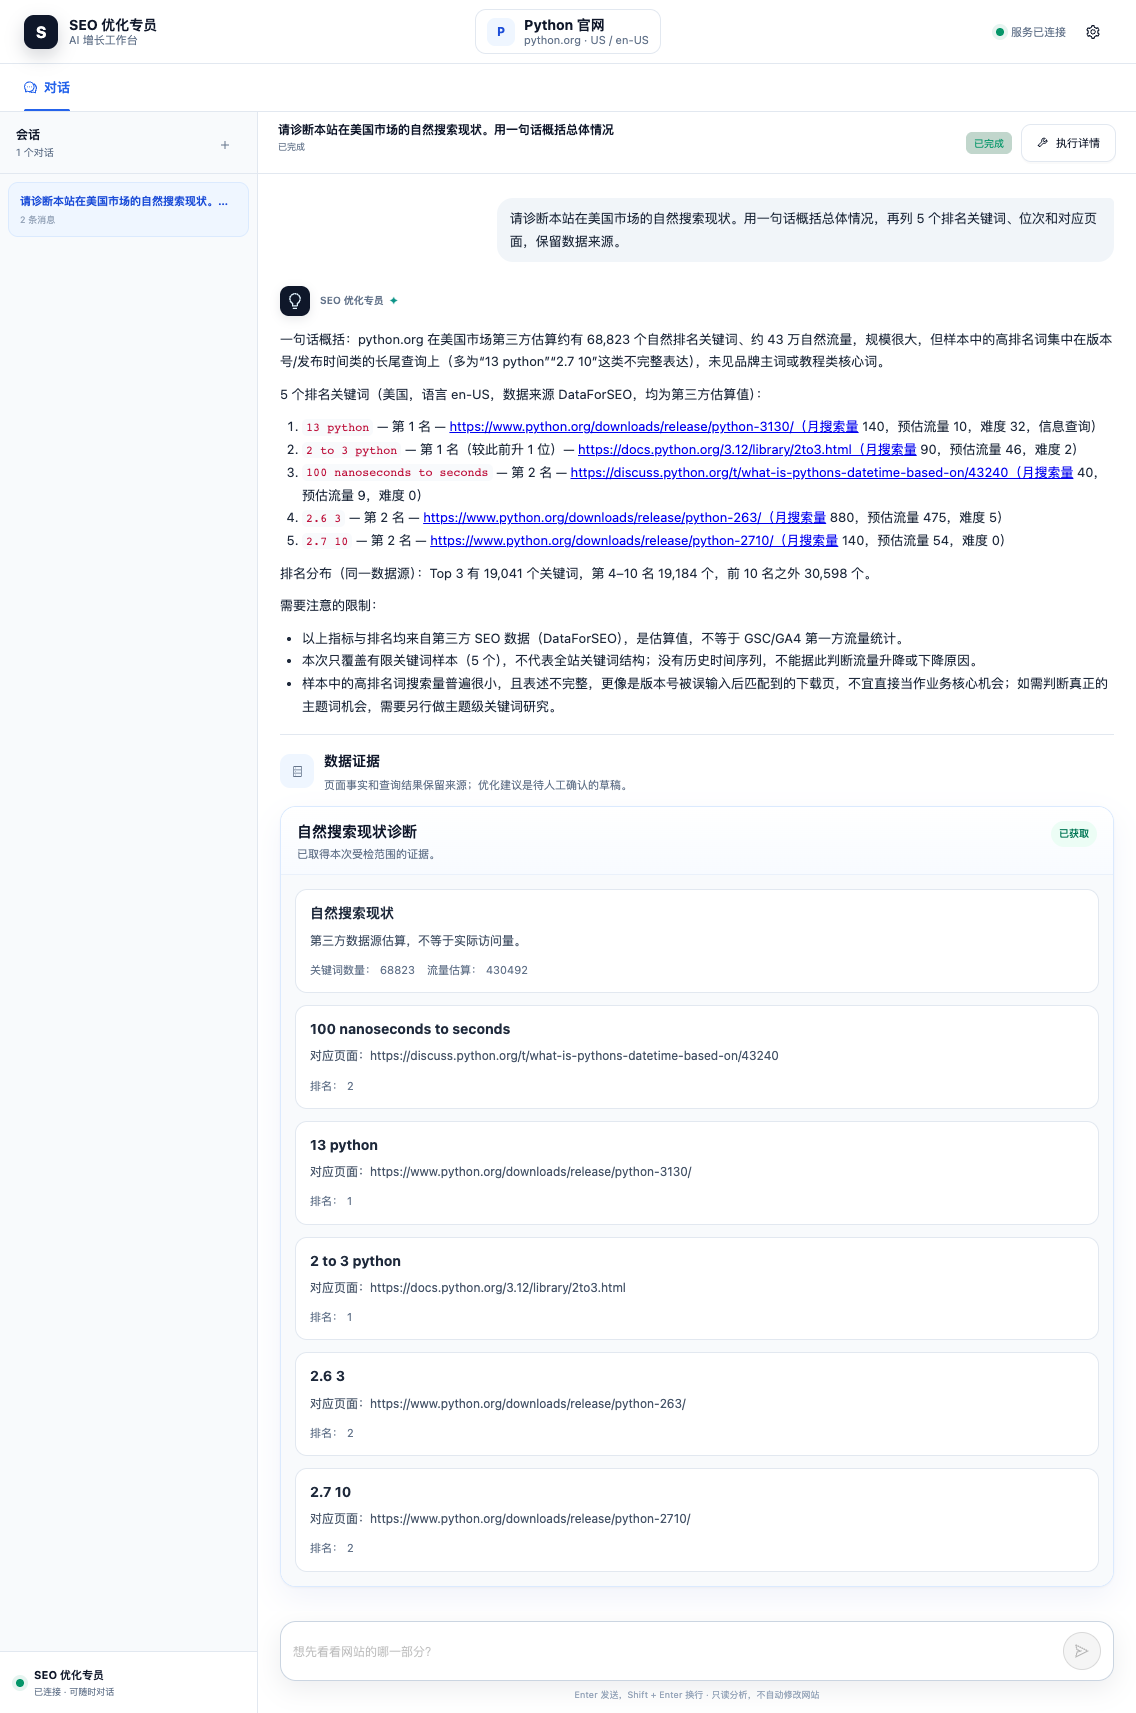
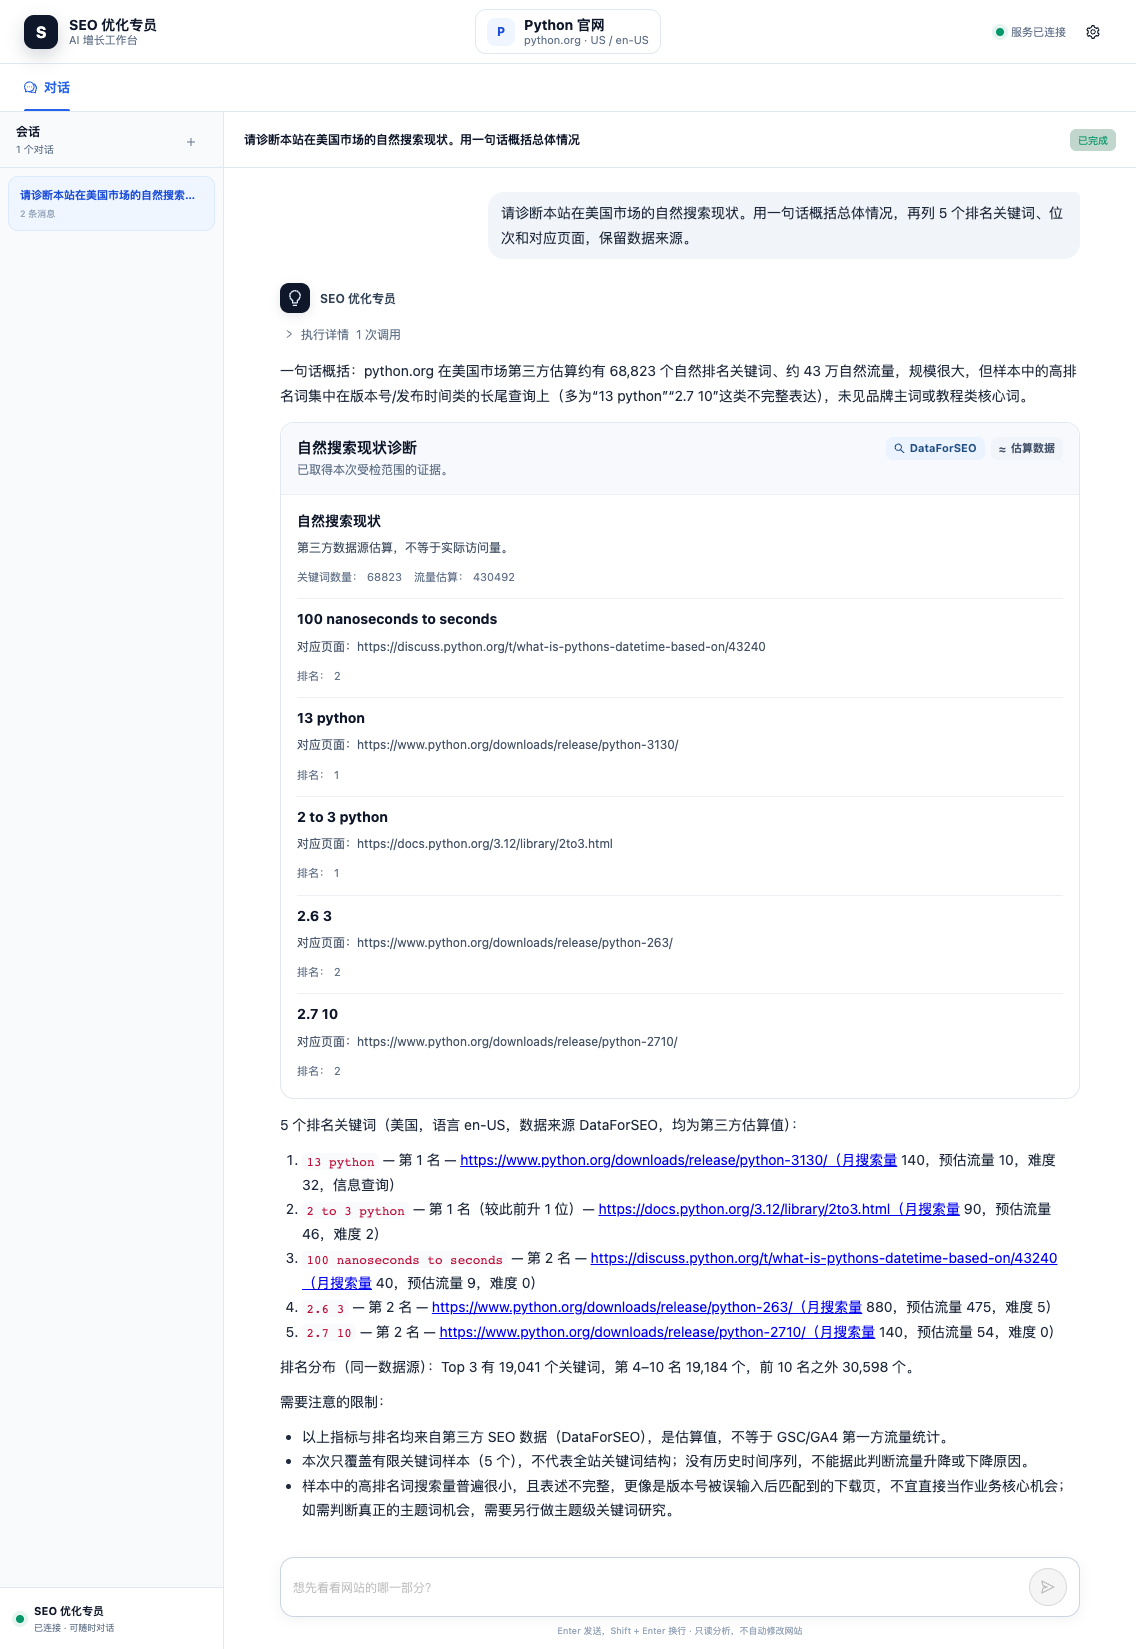
docs: show a complete SEO agent run

diff --git a/README.md b/README.md
@@ -2,9 +2,9 @@
 
 选一个网站，直接说你想查什么。DeepSeek 根据问题和取回的证据选择下一步工具，能查页面问题、研究关键词和排名页、拟定 SEO 建议。配置 Cloudflare Workers AI 后，也能在对话里生成页面分享图。
 
-## 一次真实对话
+## 真实对话
 
-用户请 Agent 根据页面拟定标题和结构化数据。
+用户准备更新首页在搜索结果和分享链接上的文案，希望先拿到一份可评审的草稿。DeepSeek 根据这句需求选择页面建议流程。读到页面后，Agent 发现站点主体和配图需要确认，于是保留证据，等待用户决定。用户选择「先用现有信息生成」，同一次运行继续，交付标题、摘要、分享信息和 JSON-LD 草稿，并标出待确认事项。[完整对话](docs/screenshots/07-page-suggestions.png) · [执行详情](docs/screenshots/11-execution-details.png)
 
 ```mermaid
 flowchart TD
@@ -16,13 +16,13 @@ flowchart TD
     Read --> Pause --> Choice --> Resume --> Draft
 ```
 
-[人工补充与执行记录](docs/screenshots/README.md#对话与人工补充) · [完整对话截图](docs/screenshots/README.md) · [本地启动](#本地启动)
+[首页体检](docs/screenshots/19-homepage-priority.png) · [关键词机会](docs/screenshots/04-keyword-opportunities.png) · [已有排名页优化](docs/screenshots/05-ranking-pages.png) · [完整对话截图](docs/screenshots/README.md) · [本地启动](#本地启动)
 
 ## Agent 如何运行
 
 - DeepSeek 根据问题和已有证据选择工具。代码限制模型轮次、工具调用总数和超时，复用本次运行中重复的成功查询。[对话入口](src/api/routes/seo_agent_chat.py) · [工具循环](src/agent/loop.py)
 - 工作流安排取证步骤、校验实际来源和结构化产物。需要人工补充时，运行检查点保存已查到的证据。[工作流代码](src/seo_agent/workflows/) · [检查点与恢复](src/agent/harness/)
-- 模型、工具及其子步骤保留输入、输出、状态和耗时，可按配置在 Langfuse 中查看一次运行的调用树。[观测代码](src/observability/)
+- 查询结果和来源紧跟对话结论。「执行详情」默认折叠，展开可查看调用状态、耗时和已取得的参数。配置 Langfuse 后可查看模型和工作流的完整调用树。[观测代码](src/observability/)
 
 ```mermaid
 flowchart TB
@@ -52,7 +52,7 @@ flowchart TB
 
 | 业务场景与输入示例 | 实际工具或服务 | 产出与当前状态 |
 | --- | --- | --- |
-| 页面体检：“检查首页 SEO，也看看性能。” | `seo_site_audit` → `seo_page_metadata`，按需调用 `seo_page_performance` | 页面元信息和可选性能证据；已封装为单页工作流 |
+| 页面体检：“客户从搜索点进首页，能看懂我们提供什么吗？帮我找出最值得先改的地方。” | `seo_site_audit` → `seo_page_metadata`，按需调用 `seo_page_performance` | 页面证据和优先建议。需要检查速度时可加上移动端性能数据 |
 | 页面信息建议：“根据这一页的内容，帮我拟定标题、描述、分享信息和结构化数据。” | `seo_page_suggestions` → 页面事实、模型草稿、引用校验、缺失信息追问 | 给出 TDK、OG、JSON-LD 建议；用户补充后沿用对话继续生成，不修改网站 |
 | 页面分享图：“按这页内容帮我生成一张分享图。” | `seo_share_image` → 读取页面、校验主体依据、调用 Cloudflare Workers AI | 配置生图服务后在对话中直接显示图片 |
 | 搜索现状：“看看本站目前有哪些关键词和排名。” | `seo_search_diagnosis` → `seo_search_metrics` + `seo_organic_keywords` | 站点指标、有限排名样本和对应页面；已封装为工作流，不提供历史下降归因 |

diff --git a/docs/screenshots/README.md b/docs/screenshots/README.md
@@ -8,7 +8,7 @@
 
 | 对话场景 | 截图 | 工作流代码 |
 | --- | --- | --- |
-| 首页体检 | [页面证据与检查范围](02-page-audit.png) | [site_audit.py](../../src/seo_agent/workflows/site_audit.py) |
+| 首页体检 | [首页最值得先改的地方](19-homepage-priority.png)、[加做移动端性能检查](02-page-audit.png) | [site_audit.py](../../src/seo_agent/workflows/site_audit.py) |
 | 搜索现状 | [排名关键词与对应页面](03-search-diagnosis.png) | [search_diagnosis.py](../../src/seo_agent/workflows/search_diagnosis.py) |
 | 关键词机会 | [候选词与未知指标](04-keyword-opportunities.png) | [keyword_opportunity.py](../../src/seo_agent/workflows/keyword_opportunity.py) |
 | 已有排名页优化 | [排名样本与页面核验](05-ranking-pages.png) | [ranking_page_optimization.py](../../src/seo_agent/workflows/ranking_page_optimization.py) |
@@ -18,7 +18,16 @@
 | 页面变更复检 | [保存基线](09-page-review-baseline.png)、[按目标复检](10-page-change-review.png) | [page_change_review.py](../../src/seo_agent/workflows/page_change_review.py) |
 
 <details>
-<summary>首页体检：组合 HTML 核验与移动端性能证据</summary>
+<summary>首页体检后该先改哪里</summary>
+
+用户想让第一次从搜索点进首页的客户看懂网站能提供什么。Agent 读取缓存的首页源码，建议把页面摘要里的资料评估、试用样品、采购协同写到首屏。
+
+![首页现状、页面依据和优先建议](19-homepage-priority.png)
+
+</details>
+
+<details>
+<summary>首页体检加做移动端性能检查</summary>
 
 本次已启用 HTML 基础扫描和 PageSpeed，工作流汇总标题、描述、H1、Canonical 及移动端 Lighthouse 结果：性能 95、无障碍 96、最佳实践 100、SEO 100。证据保留缓存状态；单页实验室结果不代表整站审计、Google 收录状态或真实用户体验。
 
@@ -114,18 +123,11 @@
 </details>
 
 <details>
-<summary>执行详情：查看实际工具、状态、耗时和运行事件</summary>
+<summary>执行详情：在对应回复中展开调用记录</summary>
 
-左侧保留原问题、用户选择和最终回复，右侧展示恢复后执行的工具和最近事件。模型输入输出与工作流内部子步骤可按配置上传到 Langfuse。[观测模块](../../src/observability/)
+「执行详情」默认折叠在对应回复里。展开后可查看调用的状态、耗时和传入参数，也可以进一步查看返回数据。模型和工作流的完整记录可按配置上传到 Langfuse。[观测模块](../../src/observability/)
 
-![实际工具调用与运行事件](11-execution-details.png)
-
-</details>
-
-<details>
-<summary>手机端：对话、建议卡片和输入框随屏幕排列</summary>
-
-![手机端页面信息建议](14-mobile-chat.png)
+![调用参数、状态和耗时](11-execution-details.png)
 
 </details>
 
@@ -145,7 +147,7 @@
 <details>
 <summary>新闻、图片与视频：为内容研究提供搜索线索</summary>
 
-同一轮对话查了新闻、图片和视频，保留了搜索结果的标题、链接或缩略图及来源。后两张图同时展示这次对话和相应工具的执行详情。
+同一轮对话查了新闻、图片和视频。缩略图、标题和来源显示在结论后面，后两张图额外展开了对应查询的调用记录。
 
 ![新闻与内容搜索结果](13-content-search.png)
 
